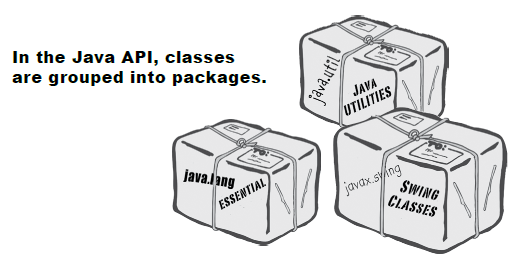
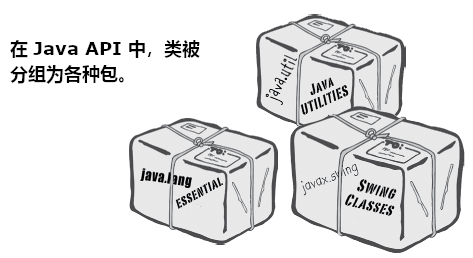
Updated.

Changed region(s): [[0.2664, 0.031, 1.0, 0.9922], [0.0, 0.155, 0.5032, 0.3411]]

diff --git a/docs/Ch12_Getting_GUI_A_Very_Graphic_Story.md b/docs/Ch12_Getting_GUI_A_Very_Graphic_Story.md
@@ -62,6 +62,27 @@ frame.setSize(300, 300);
 frame.setVisible(true);
 ```
 
+### 第一个GUI：在帧上的一个按钮
+
+
+```java
+// 
+import javax.swing.*;
+
+public class SimpleGui1 {
+    public static void main (String [] args) {
+        JFrame frame = new JFrame();
+        JButton button = new JButton("点击我");
+
+        frame.setDefaultCloseOperation(JFrame.EXIT_ON_CLOSE);
+
+        frame.getContentPane().add(button);
+        frame.setSize(300, 300);
+        frame.setVisible(true);
+    }
+}
+```
+
 
 ## 笔记
 

diff --git a/docs/Ch06_Get_to_Know_The_Java_API_Using_the_Java_Library.md b/docs/Ch06_Get_to_Know_The_Java_API_Using_the_Java_Library.md
@@ -160,7 +160,10 @@ if (refVar != null && refVar.isValidType()) {
 
 __在 Java API 中，类是以包的形式分组的（In the Java API, classes are grouped into packages）__。
 
-![In the Java API, classed are grouped into packages](images/Ch06_01.png)
+![在 Java API 中，类被分组为各种包](images/Ch06_01.png)
+
+
+*图 1 - 在 Java API 中，类被分组为各种包*
 
 __要使用API中的某个类，就要知道他在哪个包里头__。
 
